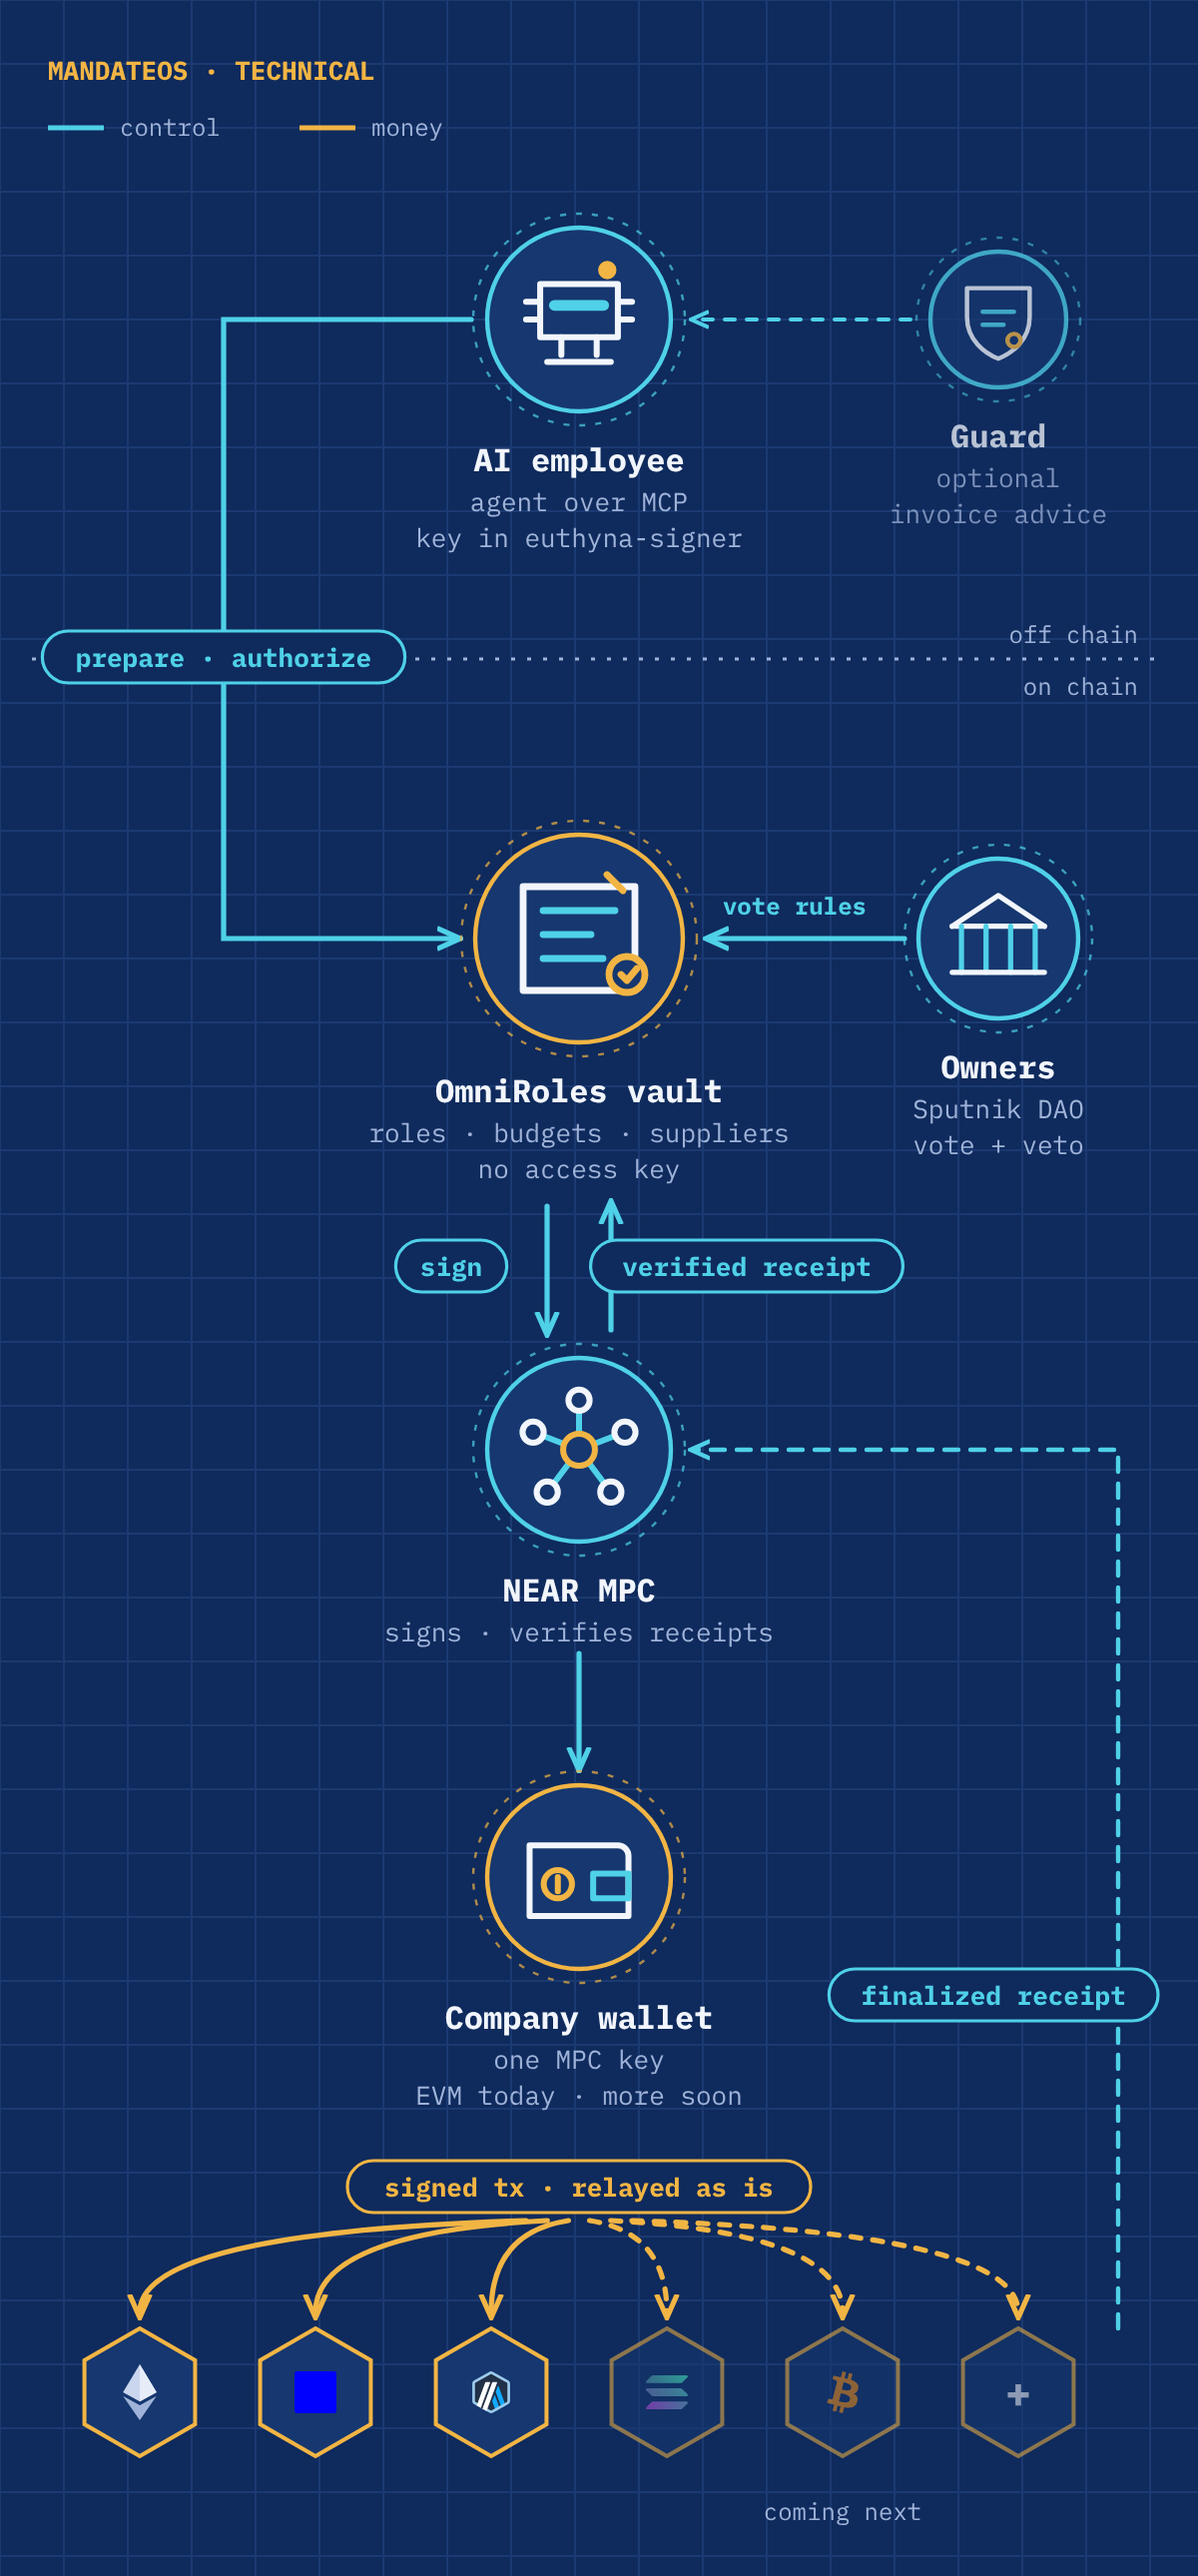
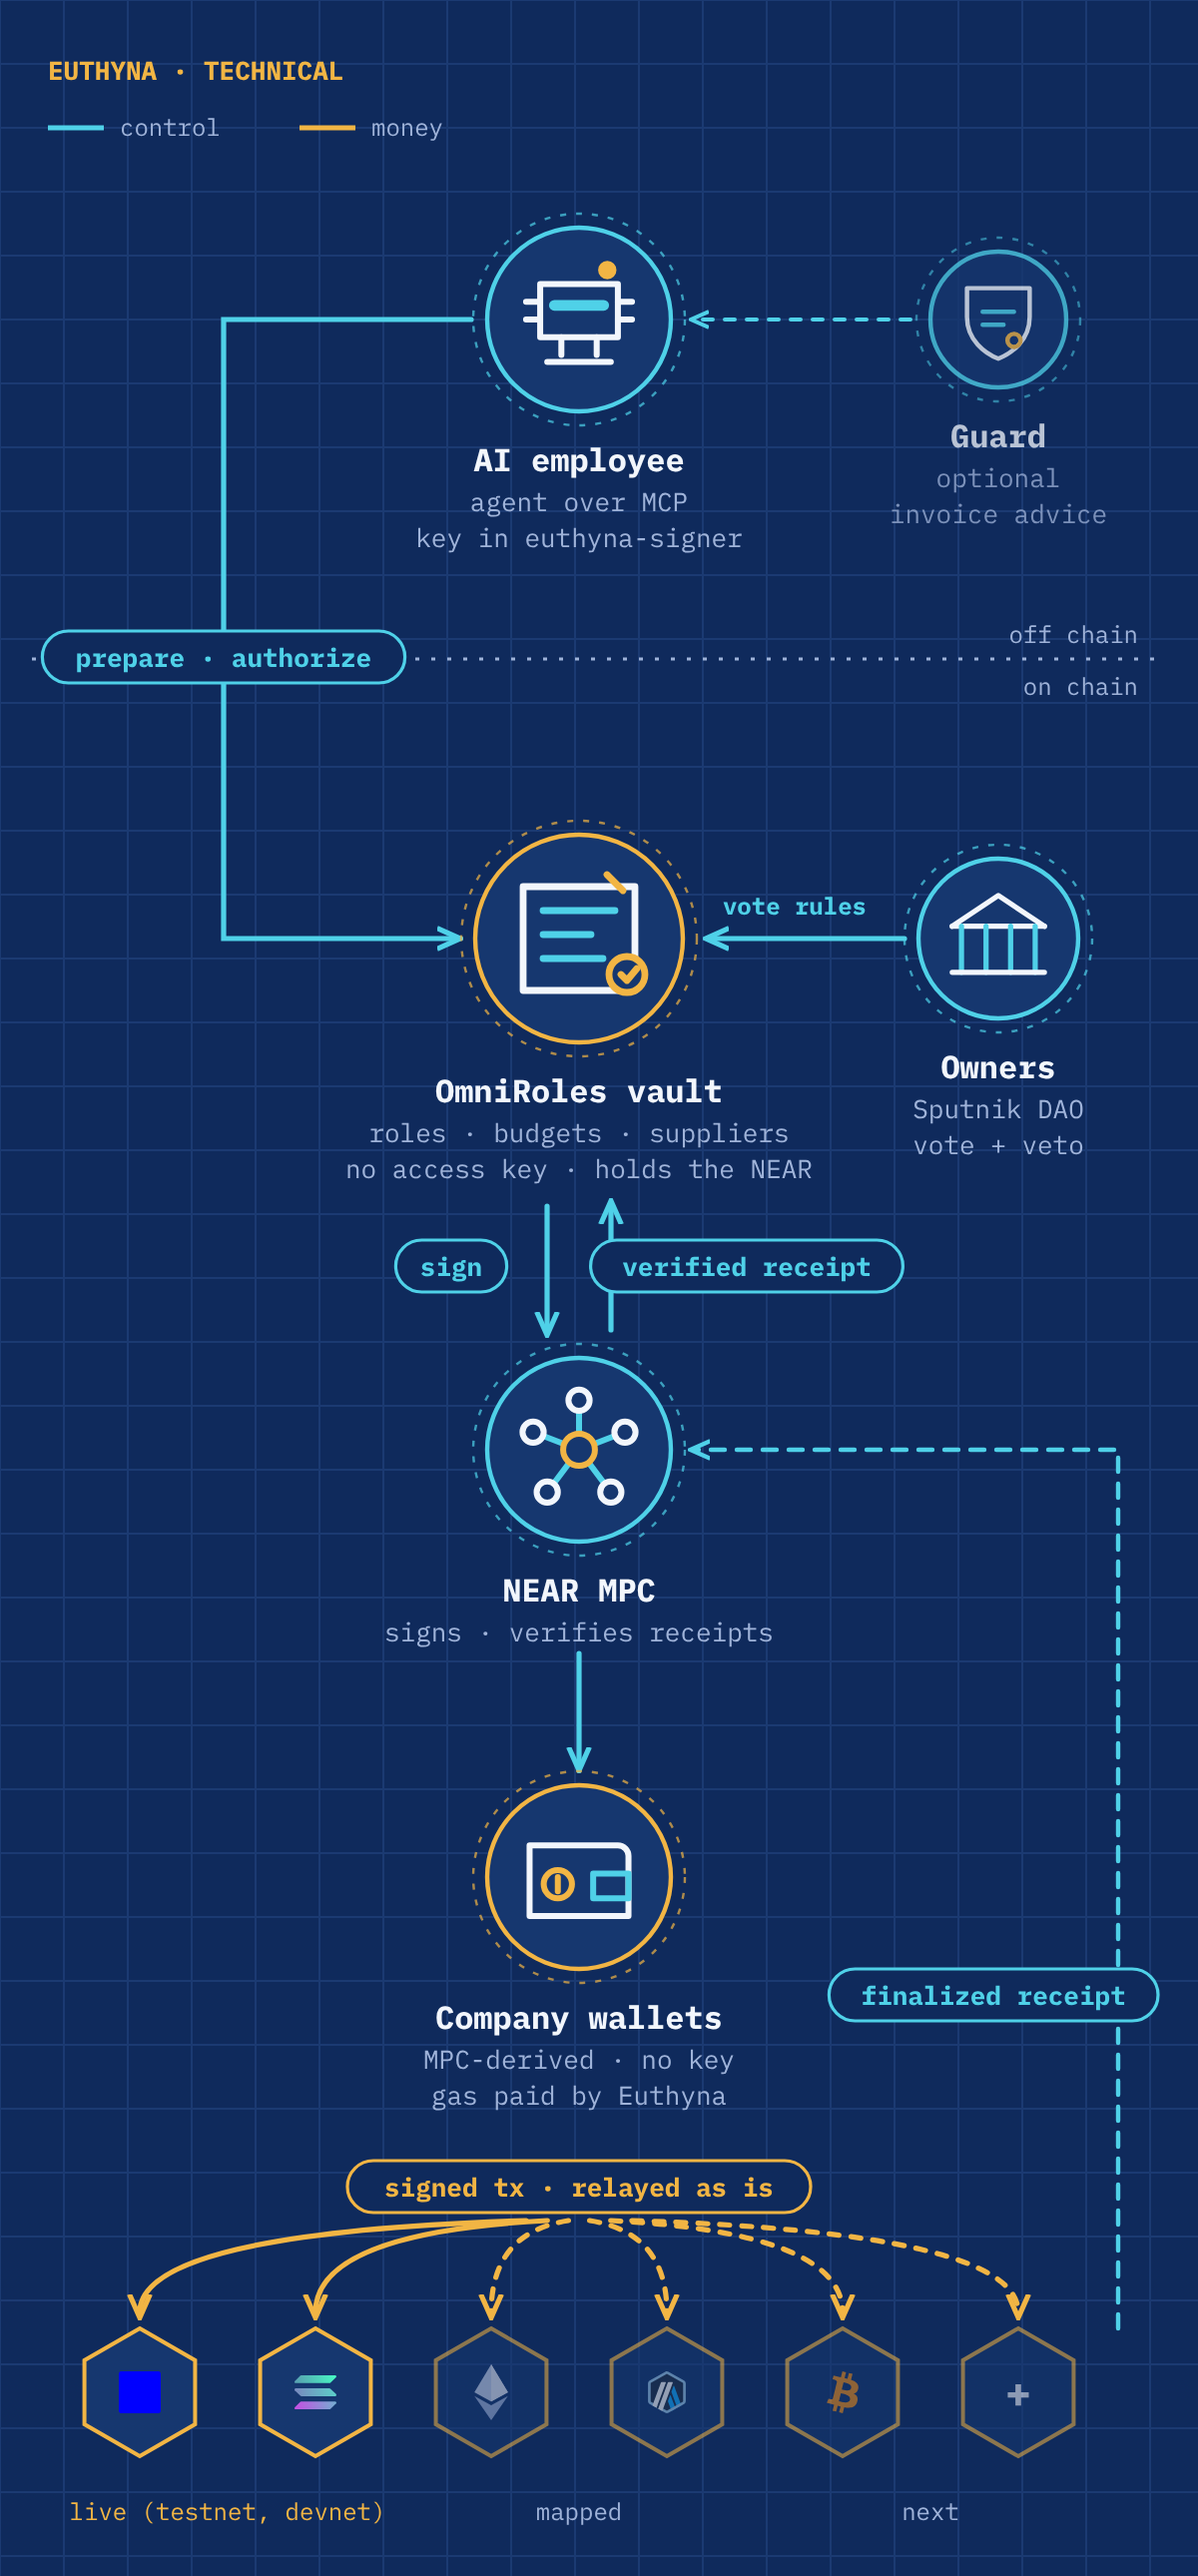
README: the whole treasury under one law; diagrams redrawn
- Top: "A company's whole treasury, under one law its owners vote", the
  subtitle kept, and six lines for what it covers (wallets with no key or gas
  to buy, euro IBAN, shareholders, Market, privacy, built to be robbed).
  NEAR Post moves to the end.
- "What is new here": Base Sepolia on testnet, Solana on devnet; Ethereum in
  the code.
- docs/diagrams (blueprint.py): titled EUTHYNA; technical: Base and Solana live,
  Ethereum and Arbitrum mapped, Bitcoin next, wallets with no key and gas paid;
  product: founders vote roles, shareholders vote calls, the company holds
  NEAR, Base, Solana and an IBAN, Market and revenue sent home. Alt texts follow.

diff --git a/docs/diagrams/blueprint.py b/docs/diagrams/blueprint.py
@@ -111,7 +111,7 @@ def legend(y, w):
 def technical():
     out.clear()
     cx = 290
-    text(24, 40, 'MANDATEOS · TECHNICAL', 13, GOLD, 'start', 700)
+    text(24, 40, 'EUTHYNA · TECHNICAL', 13, GOLD, 'start', 700)
     legend(64, 600)
     # Off chain: the agent, and an optional advisory Guard.
     node(cx, 160, 46, 'agent', 'AI employee', 'agent over MCP|key in euthyna-signer')
@@ -124,7 +124,7 @@ def technical():
     # Agent acts directly on the vault: no visa, no backend.
     arrow(f'M{cx-54} 160 H112 V470 H{cx-62}')
     chip(112, 330, 'prepare · authorize')
-    node(cx, 470, 52, 'vault', 'OmniRoles vault', 'roles · budgets · suppliers|no access key', ring=GOLD)
+    node(cx, 470, 52, 'vault', 'OmniRoles vault', 'roles · budgets · suppliers|no access key · holds the NEAR', ring=GOLD)
     node(500, 470, 40, 'dao', 'Owners', 'Sputnik DAO|vote + veto')
     arrow(f'M453 470 H{cx+66}')
     text(398, 458, 'vote rules', 12, CYAN, weight=600)
@@ -135,19 +135,22 @@ def technical():
     chip(cx + 84, 635, 'verified receipt')
     node(cx, 726, 46, 'mpc', 'NEAR MPC', 'signs · verifies receipts')
     arrow(f'M{cx} 828 V884')
-    node(cx, 940, 46, 'wallet', 'Company wallet', 'one MPC key|EVM today · more soon', ring=GOLD)
+    node(cx, 940, 46, 'wallet', 'Company wallets', 'MPC-derived · no key|gas paid by Euthyna', ring=GOLD)
     chip(cx, 1096, 'signed tx · relayed as is', GOLD)
     xs = [70, 158, 246, 334, 422, 510]
-    for x in xs:
-        arrow(f'M{cx + (x-cx)*0.12} 1112 Q{x} 1118 {x} 1158', color=GOLD, dash=None if x < 300 else '5 6')
-    for x, n in zip(xs, ['ethereum', 'base', 'arbitrum', 'solana', 'bitcoin', None]):
-        dim = n in ('solana', 'bitcoin', None)
+    live = ('base', 'solana')
+    for x, n in zip(xs, ['base', 'solana', 'ethereum', 'arbitrum', 'bitcoin', None]):
+        arrow(f'M{cx + (x-cx)*0.12} 1112 Q{x} 1118 {x} 1158', color=GOLD, dash=None if n in live else '5 6')
+    for x, n in zip(xs, ['base', 'solana', 'ethereum', 'arbitrum', 'bitcoin', None]):
+        dim = n not in live
         if dim:
             out.append('<g opacity=".55">')
         chain_hex(x, 1198, n, None if n else '+')
         if dim:
             out.append('</g>')
-    text(422, 1262, 'coming next', 12, MUTED)
+    text(114, 1262, 'live (testnet, devnet)', 12, GOLD)
+    text(290, 1262, 'mapped', 12, MUTED)
+    text(466, 1262, 'next', 12, MUTED)
     # MPC reads the finalized receipt on the destination chain.
     arrow(f'M560 1166 V726 H{cx+58}', dash='7 6', w=2.2)
     chip(580, 1000, 'finalized receipt', anchor='end')
@@ -157,26 +160,26 @@ def technical():
 def product():
     out.clear()
     cx = 290
-    text(24, 40, 'MANDATEOS · PRODUCT', 13, GOLD, 'start', 700)
+    text(24, 40, 'EUTHYNA · PRODUCT', 13, GOLD, 'start', 700)
     legend(64, 580)
-    node(160, 160, 44, 'investors', 'Investors', 'buy · vote · earn')
-    node(420, 160, 44, 'founders', 'Security council', 'vote · veto · pause')
+    node(160, 160, 44, 'investors', 'Shareholders', 'buy · lock · vote · earn')
+    node(420, 160, 44, 'founders', 'Founders', 'vote roles · veto · halt')
     arrow('M144 262 Q150 340 236 376', color=GOLD)
     arrow('M186 262 Q200 320 258 362')
     arrow('M410 262 Q394 330 334 368')
     chip(156, 336, 'buy shares', GOLD)
-    chip(236, 300, 'vote roles')
-    chip(432, 318, 'vote · veto')
-    node(cx, 430, 52, 'company', 'AI company', 'DAO + treasury', ring=GOLD)
+    chip(236, 300, 'vote calls')
+    chip(432, 318, 'roles · veto')
+    node(cx, 430, 52, 'company', 'Company', 'DAO + keyless vault|NEAR · Base · Solana · IBAN', ring=GOLD)
     arrow(f'M{cx+62} 430 H456', dash='6 6')
     node(510, 430, 34, 'directory', 'Directory', 'public|on chain')
-    arrow(f'M{cx} 536 V610')
-    chip(cx, 573, 'roles and budgets')
-    node(cx, 666, 48, 'agents', 'AI employees', 'agents over MCP')
+    arrow(f'M{cx} 556 V610')
+    chip(cx, 583, 'roles and budgets')
+    node(cx, 666, 48, 'agents', 'Agents and people', 'act within their role')
     xs = [140, 240, 340, 440]
     for x in xs:
         arrow(f'M{cx + (x-cx)*0.2} 770 Q{x} 778 {x} 818', color=GOLD)
-    for x, ic, lab in zip(xs, ['chart', 'invoice', 'swap', 'share'], ['DeFi', 'Pay|suppliers', 'Swaps', 'Share|revenue']):
+    for x, ic, lab in zip(xs, ['invoice', 'swap', 'directory', 'share'], ['Pay|suppliers', 'Swap|sealed', 'Market|sell, hire', 'Revenue|home']):
         job(x, 856, ic, lab)
     arrow('M440 950 V986 H52 V160 H104', color=GOLD)
     chip(240, 986, 'revenue for voters', GOLD)

diff --git a/README.md b/README.md
@@ -1,16 +1,17 @@
 # Euthyna
 
-**Give AI agents money. Never the keys.**
+**A company's whole treasury, under one law its owners vote.**
+*Give AI agents money. Never the keys.*
 
-Euthyna is a company wallet on NEAR where **people and AI agents act under rules the owners vote**.
-Each member, human or agent, gets a role: which chains, contracts, functions, parameters and budget.
-A vault with no access key checks the role on chain before NEAR Chain Signatures sign anything: on
-NEAR and Base Sepolia today, Ethereum and Solana in the code. Everything outside the roles is a multisig vote of the owners.
-The company wallet needs no gas: once the owners vote it, Euthyna's relayer pays its Base transactions (EIP-7702, testnet),
-and a swap's approval is granted and revoked in the same transaction.
+Agents pay, swap, sell and send the revenue home. Owners vote the rules and how the revenue is shared.
+A NEAR vault with no access key enforces them on every wallet the company holds: NEAR, Base, Solana, and a euro IBAN.
 
-So a hijacked agent cannot pay the attacker, a stolen server cannot move funds, and one rogue member
-cannot change the rules: **48 attacks, 48 refused** ([Check it yourself](#check-it-yourself)).
+- **Wallets with no key, and no gas to buy**: the vault holds the NEAR funds itself; Base Sepolia and Solana devnet addresses are derived by NEAR Chain Signatures, signed only when a role allows it, and their gas is paid by Euthyna (on Base, once the owners vote it)
+- **A euro bank account on the same law**: SEPA in as EURC, payouts only to IBANs the members voted
+- **Owned by shareholders**: shares, votes, and revenue paid to the holders who voted
+- **Agents hire agents**: on the Market, one company's agent buys from another's; its cheque is cashed only on delivery
+- **Private by design**: sealed limit orders proven in zero knowledge; a lost seat recovered by ZK Email and a vote
+- **Built to be robbed**: we assume the agent is compromised. **48 attacks, 48 refused** ([Check it yourself](#check-it-yourself)), and a public game where anyone can try
 
 Built at the [NEAR Hackathon](https://nearhackathon.com/) (tracks 06 AI Security & Defense,
 03 Privacy & Private AI, 04 Autonomous Business, 07 Agent Economy, 08 Real-World Money, 12 Social Money).
@@ -19,7 +20,6 @@ Testnet only, unaudited. Work started on 20 October 2026: see [Built for the hac
 - **Demo:** <link to the X post>
 - **Live:** [euthyna.io](https://euthyna.io) · **Judges:** [JUDGE-PATH.md](./JUDGE-PATH.md), about 21 minutes, each step checkable on chain
 - **Every claim and its status** (testnet, code, next): [CLAIMS.md](./CLAIMS.md)
-- The same author also submits **NEAR Post** ([github.com/Koploseus/near-post](https://github.com/Koploseus/near-post)), a football game on NEAR.
 
 ## Why
 
@@ -113,7 +113,7 @@ pnpm install && pnpm attack:all       # 48 attacks: 48 refused
 
 | | | Proof |
 | --- | --- | --- |
-| 1 | **One policy engine for every chain.** A role pins chain, contract, function and calldata conditions (recipient, amount read from the calldata), with refilling budgets, velocity limits, co-signature thresholds and single-use references. The vault enforces it on NEAR, then NEAR MPC signs the transaction for the target chain (Base on testnet; Ethereum and Solana in the code). | `contracts/vault`, `contracts/omniroles-conditions`; Base Sepolia payments on testnet |
+| 1 | **One policy engine for every chain.** A role pins chain, contract, function and calldata conditions (recipient, amount read from the calldata), with refilling budgets, velocity limits, co-signature thresholds and single-use references. The vault enforces it on NEAR, then NEAR MPC signs the transaction for the target chain (Base Sepolia on testnet, Solana on devnet; Ethereum in the code). | `contracts/vault`, `contracts/omniroles-conditions`; Base Sepolia payments on testnet |
 | 2 | **Nothing to steal.** The vault, the registry and the vault factory (Nomos) have no access key; the company wallet has no private key. No Euthyna server holds a key that moves funds, and the vault settles from an MPC attestation of the finalized transaction, not from a server. | `view_access_key_list`; `contracts/tests/tests/settlement.rs` |
 | 3 | **The key never reaches the AI.** An agent's key is a NEAR function-call key for 16 vault methods. `euthyna-signer` keeps it under another system user and signs only requests to that vault: the AI can ask for a signature, never read the key. | `signer/` (Rust, 24 tests) |
 | 4 | **Limit orders nobody sees.** Price, total and deadline are one hash on chain, before and after a fill. Each fill comes with a zero-knowledge proof that it meets the hidden terms, verified on NEAR, and still goes through the swap role. | `contracts/sealed-orders`; filled on testnet |
@@ -226,7 +226,7 @@ pnpm --filter @euthyna/api sealed watch order.json --key watcher.json
 
 ## Product architecture
 
-![Product architecture: investors and the security council outside the AI company; roles, AI employees and treasury inside; clients, suppliers and the public directory around it](./docs/diagrams/product.png)
+![Product architecture: shareholders buy and lock shares and vote company calls; founders vote roles, veto and halt; the company (a DAO and a keyless vault holding NEAR, Base, Solana and a euro IBAN) is listed in the public directory; agents and people act within their roles: pay suppliers, sealed swaps, the Market, and revenue sent home, shared with the shareholders who voted](./docs/diagrams/product.png)
 
 1. **Raise**: founders create the company; investors buy shares and the proceeds go to the treasury.
 2. **Hire**: the owners vote a role for each AI employee. The agent plugs in over MCP.
@@ -236,7 +236,7 @@ pnpm --filter @euthyna/api sealed watch order.json --key watcher.json
 
 ## Technical architecture
 
-![Technical architecture: the agent calls the OmniRoles vault directly (prepare, authorize); the owners vote rules and suppliers through the Sputnik DAO; NEAR MPC signs for the company wallet, the signed transaction is relayed unchanged to Ethereum, Base, Arbitrum (Solana in the code, Bitcoin next), and NEAR MPC verifies the finalized receipt so the vault settles the budget. The Guard is optional advice.](./docs/diagrams/technical.png)
+![Technical architecture: the agent calls the OmniRoles vault directly (prepare, authorize); the owners vote rules and suppliers through the Sputnik DAO; the vault holds the NEAR itself and has NEAR MPC sign for the company wallets only what a role allows; the signed transaction is relayed unchanged to Base (testnet) and Solana (devnet), with Ethereum and Arbitrum mapped and Bitcoin next; NEAR MPC verifies the finalized receipt so the vault settles the budget. The Guard is optional advice.](./docs/diagrams/technical.png)
 
 | Layer | Holds keys that move funds? |
 | --- | --- |
@@ -394,3 +394,4 @@ From 1 November, on NEAR:
 `MandateOS`, the project's first name, survives only in testnet account names (`*.mandateos-root-20261021.testnet`),
 the local database name and the contracts' Cargo metadata (changing it would change the wasm hashes).
 
+The same author also submits **NEAR Post** ([github.com/Koploseus/near-post](https://github.com/Koploseus/near-post)), a football game on NEAR.
